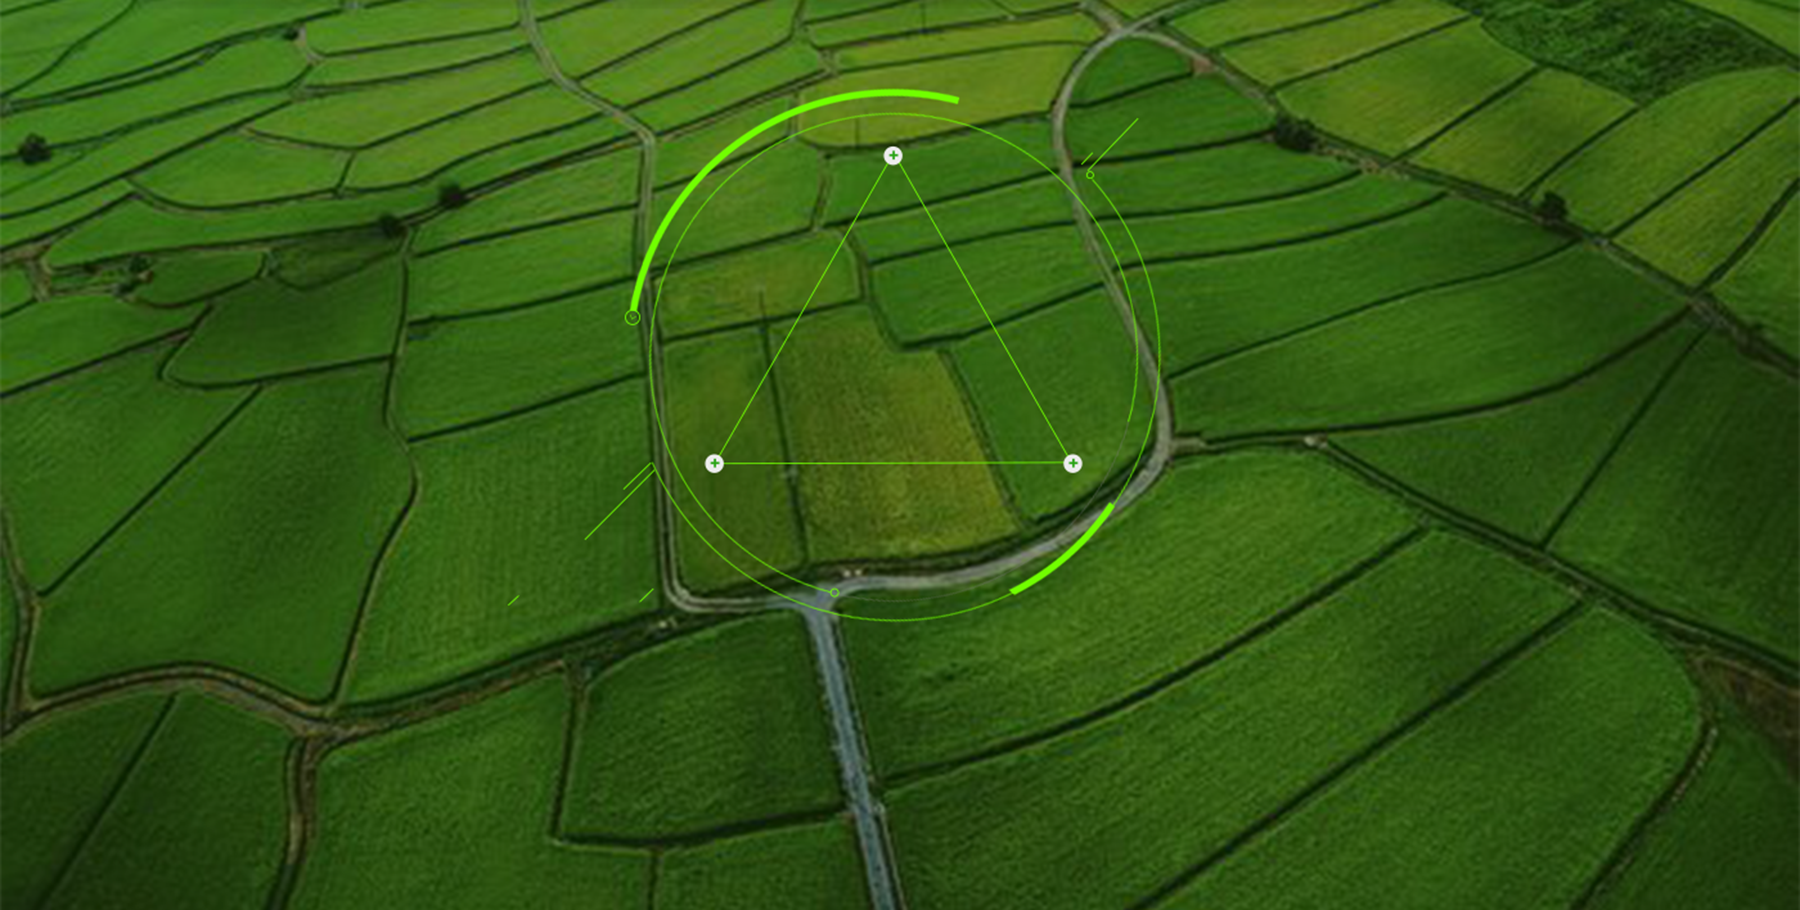
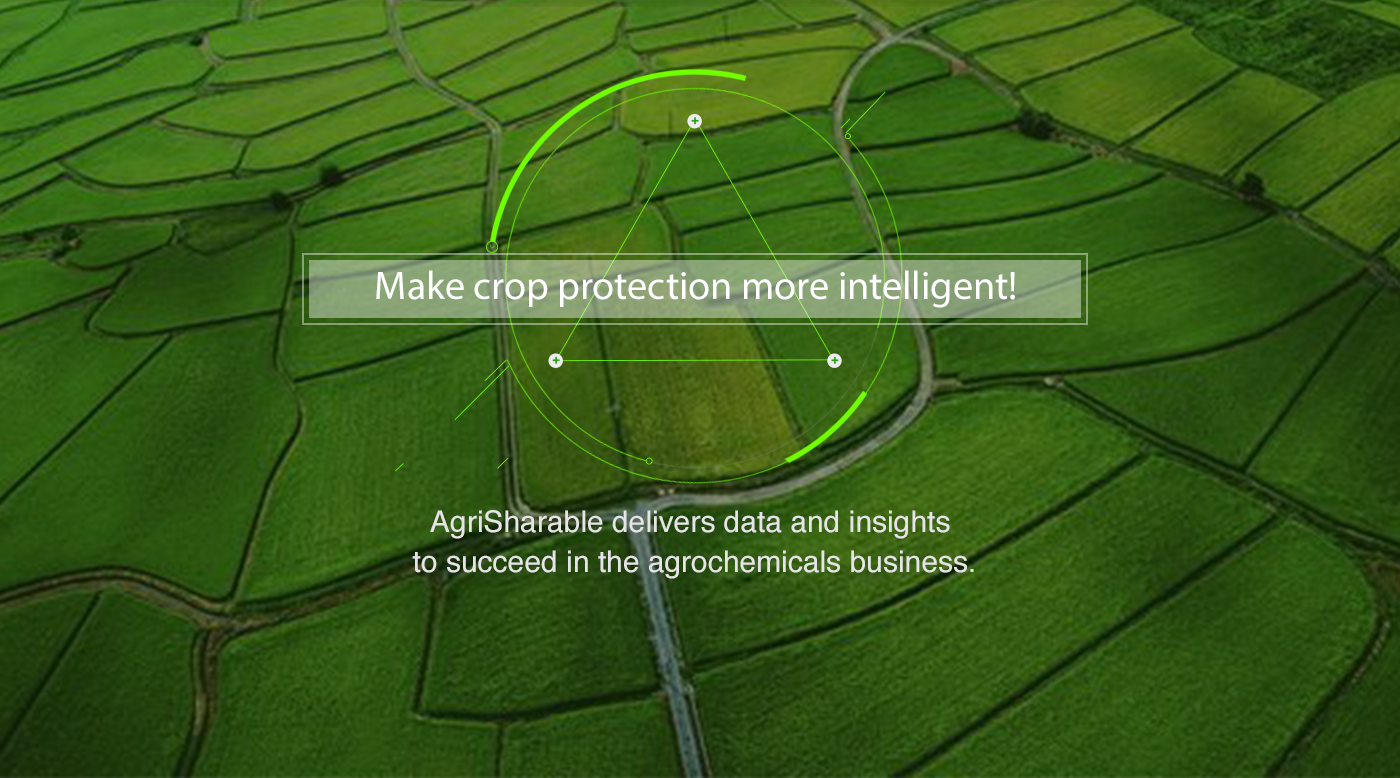
fixbug

diff --git a/client/template/layouts/index.html b/client/template/layouts/index.html
@@ -6,14 +6,14 @@
 <template name="hello">
 
   <div id="slides">
-    <div class="slides-container">
-      <div class="img-wapper" style="background: url('/images/banner1.png') center 0 no-repeat; display: block; ">
+    <div class="slides-container" style="background: url('/images/banner1.png') center 0 no-repeat; display: block; background-size: 100% 100%;">
+      <div class="img-wapper" style="background: url('/images/banner1.png') center 0 no-repeat; display: block; background-size: 100% auto;">
         <!-- <img src="/images/banner1.png" alt="Cinelli"> -->
-        <div class="font1">
+        <!-- <div class="font1">
           <div class="font2">Make crop protection more intelligent!</div>
         </div>
         <div class="font3">AgriSharable delivers data and insights <br/>
-        to succeed in the agrochemicals business.</div>
+        to succeed in the agrochemicals business.</div> -->
         <a class="btn-login" href="{{pathFor 'reg'}}" >Sign Up, It's Free!</a>
       </div>
     </div>

diff --git a/client/template/pages/about.html b/client/template/pages/about.html
@@ -133,13 +133,13 @@
 		$(function(){
 
 	      // alert($(window).height());
-	      $(window).resize(function() {
-	        var windowHeight = ($(window).height()-80-130) + 'px';
-	        $('.aboutA .con').css('height',windowHeight);
-	        $('.aboutA .con li').css('height',windowHeight);
-	      });
+	      // $(window).resize(function() {
+	      //   var windowHeight = ($(window).height()-80-130) + 'px';
+	      //   $('.aboutA .con').css('height',windowHeight);
+	      //   $('.aboutA .con li').css('height',windowHeight);
+	      // });
 
-	      $(window).trigger('resize');
+	      // $(window).trigger('resize');
 
 	    })
 	</script>

diff --git a/client/template/pages/header.js b/client/template/pages/header.js
@@ -5,7 +5,8 @@ Template.header.events({
   },
   "click .Algro": function(event, template){
     
-    $('document,body').animate({scrollTop: '719px'}, 800);
+    var windowHeight = ($(window).height()-80) + 'px';
+    $('document,body').animate({scrollTop: windowHeight}, 800);
   },
   "click .list .pub": function(event, template){
     
